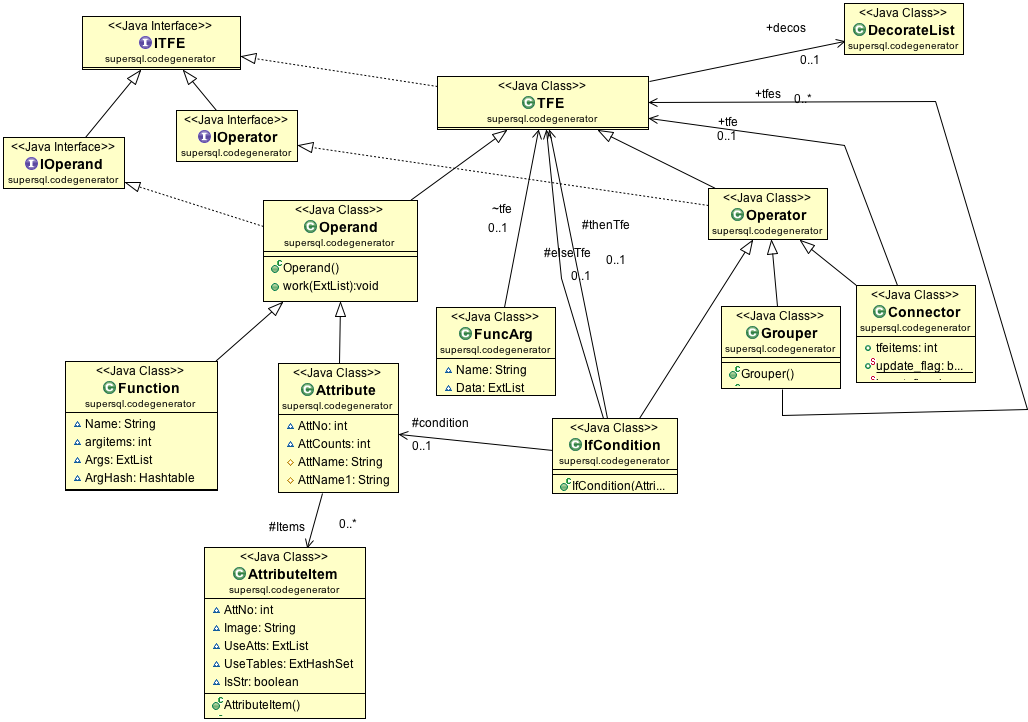
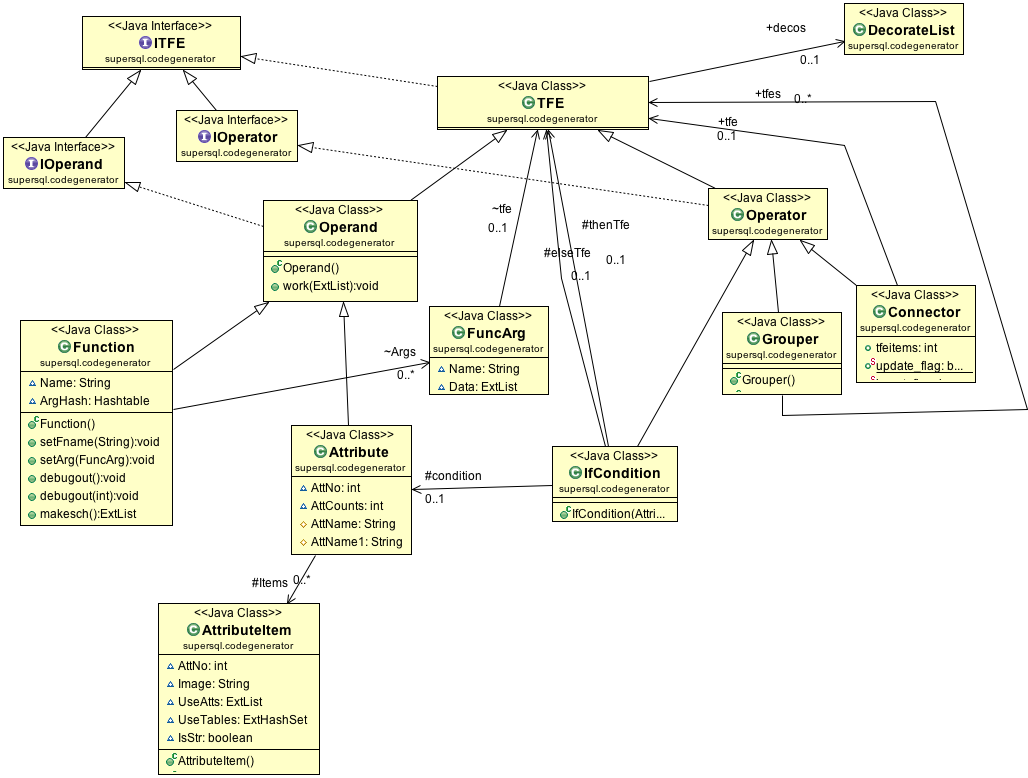
Function refactor

diff --git a/supersql/codegenerator/Function.java b/supersql/codegenerator/Function.java
@@ -8,49 +8,38 @@ import supersql.extendclass.ExtList;
 public class Function extends Operand {
 
 	String Name; 
-	int argitems; 
-	ExtList Args;     
-	Hashtable ArgHash = new Hashtable();
+	ExtList<FuncArg> Args;     
+	Hashtable<String, FuncArg> ArgHash = new Hashtable<String, FuncArg>();
 
 	public Function() {
 		super();
 		Name = "";
-		argitems = 0;
-		Args = new ExtList();
+		Args = new ExtList<FuncArg>();
 	}
 
 	public void setFname(String name) {
-
 		Name = name;
-
 	}
 
 	public void setArg(FuncArg fa) {
-		argitems++;
 		Args.add(fa);
-	}
-
-	public void debugout() {
-		debugout(0);
 	}
 
 	public void debugout(int count) {
 
 		Debug dbgout = new Debug();
-		dbgout.prt(count, "<Function Name=" + Name + " argitems=" + argitems
+		dbgout.prt(count, "<Function Name=" + Name + " argitems=" + Args.size()
 				+ " decoitems=" + decos.size() + " id=" + id + ">");
 
 		for (int i = 0; i < Args.size(); i++) {
-			((FuncArg) Args.get(i)).debugout(count + 1);
+			Args.get(i).debugout(count + 1);
 		}
 
 		decos.debugout(count + 1);
-
 		dbgout.prt(count, "</Function>");
 	}
 
 	public ExtList makesch() {
-
 		ExtList outsch = new ExtList();
 		ExtList outsch1 = new ExtList();
 
@@ -60,11 +49,8 @@ public class Function extends Operand {
 				outsch.addAll(outsch1);
 			}
 		}
-
-		//  Log.out("Fnc outsch:"+outsch);
-
+		
 		return outsch;
-
 	}
 
 	public ExtList makele0() {
@@ -82,10 +68,9 @@ public class Function extends Operand {
 		Log.out("Fnc le0:" + le0);
 
 		return le0;
-
 	}
 
-	public void work(ExtList data_info) {
+	public void work(ExtList<ExtList<String>> data_info) {
 		Log.out("*Function");
 	}
 
@@ -96,27 +81,21 @@ public class Function extends Operand {
 			items += ((FuncArg) Args.get(i)).countconnectitem();
 		}
 
-		//		Log.out("*Function connect item = " + items);
 		return items;
 	}
 
-	public ExtList getArgs() {
+	public ExtList<FuncArg> getArgs() {
 		return Args;
 	}
 
-	public void setDataList(ExtList data) {
-
-		
+	public void setDataList(ExtList<ExtList<String>> data) {
 		int dindex = 0;
 		int ci;
 		FuncArg fa;
-		//Log.out("data = " + data);
 		for (int i = 0; i < Args.size(); i++) {
-			fa = (FuncArg) Args.get(i);
+			fa = Args.get(i);
 			ci = fa.countconnectitem();
-			//		Log.out("ci = "+ci);
 			fa.setData(data.ExtsubList(dindex, dindex + ci));
-			//		Log.out("key = "+fa.getKey());
 			if (Name.equalsIgnoreCase("foreach")){
 				ArgHash.put(Integer.toString(i), fa);
 			} else {
@@ -149,7 +128,7 @@ public class Function extends Operand {
 	}
 
 	public void workAtt(String Key) {
-		FuncArg fa = (FuncArg) ArgHash.get(Key);
+		FuncArg fa = ArgHash.get(Key);
 
 		if (fa != null) {
 			fa.workAtt();
@@ -162,9 +141,8 @@ public class Function extends Operand {
 		FuncArg fa;
 		String result = null;
 
-		//Log.out("data = " + data);
 		for (int i = 0; i < Args.size(); i++) {
-			fa = (FuncArg) Args.get(i);
+			fa = Args.get(i);
 			if (fa.getKey().equalsIgnoreCase("class")) {
 			    result = fa.getStr();
 			}
@@ -175,13 +153,12 @@ public class Function extends Operand {
 
 	}
 	
-	//added by ria 20110913 start
 	public ExtList makeschImage() {
 		ExtList outsch = new ExtList();
 		ExtList outsch1 = new ExtList();
 
 		for (int i = 0; i < Args.size(); i++) {
-			outsch1 = ((FuncArg) Args.get(i)).makeschImage();
+			outsch1 = Args.get(i).makeschImage();
 			if (!outsch1.isEmpty()) {
 				outsch.addAll(outsch1);
 			}
@@ -189,6 +166,5 @@ public class Function extends Operand {
 
 		return outsch;
 	}
-	//added by ria 20110913 end
 	
 }

diff --git a/supersql/codegenerator/ITFE.java b/supersql/codegenerator/ITFE.java
@@ -25,7 +25,7 @@ public interface ITFE {
 
 	ExtList makele0();
 
-	void work(ExtList data_info);
+	void work(ExtList<ExtList<String>> data_info);
 
 	int countconnectitem();
 
@@ -35,14 +35,10 @@ public interface ITFE {
 	void setId(int id);
 	int getId();
 
-	//hanki start
 	void setOrderBy(String order);
 	void setAggregate(String aggregate);
-	//hanki end
 
-	//added by ria 20110913 start
 	ExtList makeschImage();
-	//added by ria 20110913 end
 
 	void addDeco(String name, String value, String condition);
 }

diff --git a/supersql/codegenerator/Operand.java b/supersql/codegenerator/Operand.java
@@ -9,7 +9,7 @@ public class Operand extends TFE implements IOperand {
 	}
 
 	@Override
-	public void work(ExtList data_info) {
+	public void work(ExtList<ExtList<String>> data_info) {
 		// TODO Auto-generated method stub
 
 	}

diff --git a/supersql/codegenerator/TFE.java b/supersql/codegenerator/TFE.java
@@ -36,7 +36,7 @@ public class TFE implements ITFE {
 	}
 
 	@Override
-	public void work(ExtList data_info) {
+	public void work(ExtList<ExtList<String>> data_info) {
 		// TODO Auto-generated method stub
 		
 	}

diff --git a/supersql/codegenerator/IOperand.java b/supersql/codegenerator/IOperand.java
@@ -6,6 +6,6 @@ import supersql.extendclass.ExtList;
 
 public abstract interface IOperand extends ITFE {
 
-	public void work(ExtList data_info);
+	public void work(ExtList<ExtList<String>> data_info);
 
 }
